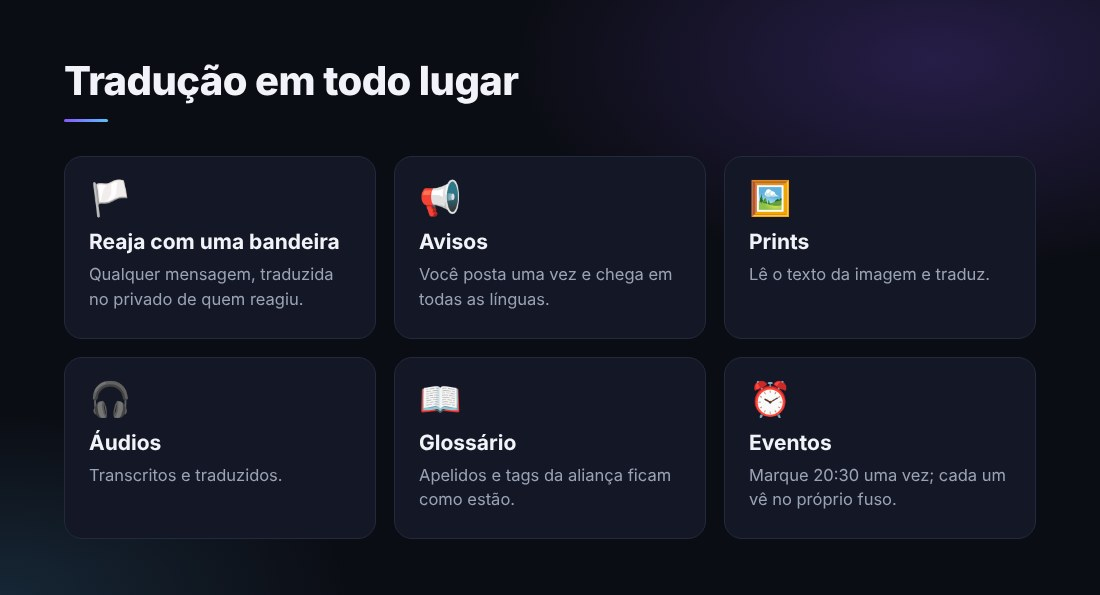
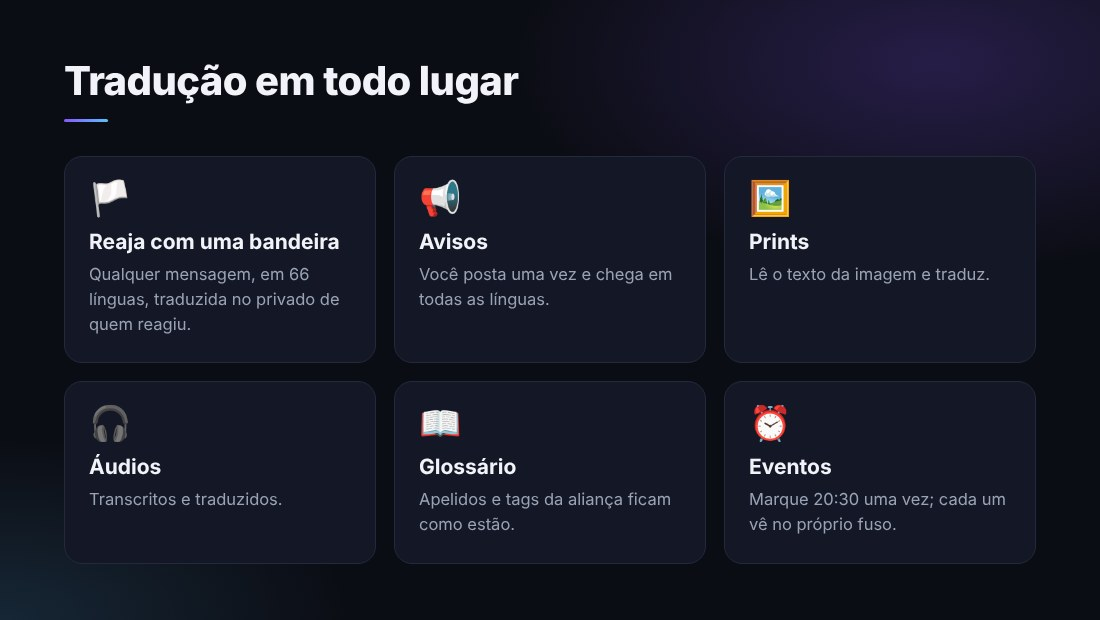
Bandeira em 66 línguas + arte de comparação na página do top.gg
- A reação de bandeira passa de 22 para 66 línguas (grego, sueco,
  hebraico, persa, tcheco, bengali, suaíli...): LINGUAS_DA_BANDEIRA e mais
  países por língua. As salas continuam nas 22 do menu.
- Motores: DeepL é pulado nas línguas que não tem (DEEPL_ACEITA); a Azure
  chama no/sr/mn de nb/sr-Cyrl/mn-Cyrl; um 400 numa língua só de bandeira
  cai no gratuito sem marcar o motor como falhando nem castigar a chave.
- top.gg: arte "Por que a CYRON" (bot comum × CYRON), chip "66 línguas",
  texto com 66 na bandeira e 22 nas salas; artes na versão 2.
- Site: llms.txt e JSON-LD com as 66 línguas da bandeira.

Claude-Session: https://claude.ai/code/session_01KEoVPUpsqnUtDW8kuRSzxb

diff --git a/discord-bot-gateway/index.js b/discord-bot-gateway/index.js
@@ -690,9 +690,55 @@ const IDIOMA_DO_PAIS = {
   BH: "ar", OM: "ar", JO: "ar", LB: "ar", LY: "ar", TN: "ar", YE: "ar",
 };
 
+/* MAIS LINGUAS NA BANDEIRA (dono, 24/11: "quanto mais idiomas mais
+   visibilidade").
+
+   As salas continuam nas 22 do menu -- sala custa espaco no servidor e
+   traducao a cada fala. A bandeira, nao: so' traduz quando alguem reage, e
+   so' para quem reagiu. Entao ela pode atender quase todo pais com bandeira,
+   e um grego que reage com 🇬🇷 recebe em grego em vez de nada.
+
+   [codigo, nome em portugues, bandeira, nome na propria lingua]. O codigo e'
+   o do Google (o gratuito); a Azure chama tres deles de outro jeito
+   (AZURE_IDIOMA), e o DeepL so' conhece parte (DEEPL_ACEITA) -- lingua que um
+   motor nao tem cai no seguinte sem marcar falha (ver motorAceita). */
+const LINGUAS_DA_BANDEIRA = [
+  ["el", "Grego", "🇬🇷", "Ελληνικά"], ["sv", "Sueco", "🇸🇪", "Svenska"], ["no", "Norueguês", "🇳🇴", "Norsk"],
+  ["da", "Dinamarquês", "🇩🇰", "Dansk"], ["fi", "Finlandês", "🇫🇮", "Suomi"], ["is", "Islandês", "🇮🇸", "Íslenska"],
+  ["cs", "Tcheco", "🇨🇿", "Čeština"], ["sk", "Eslovaco", "🇸🇰", "Slovenčina"], ["hu", "Húngaro", "🇭🇺", "Magyar"],
+  ["ro", "Romeno", "🇷🇴", "Română"], ["bg", "Búlgaro", "🇧🇬", "Български"], ["sr", "Sérvio", "🇷🇸", "Српски"],
+  ["hr", "Croata", "🇭🇷", "Hrvatski"], ["bs", "Bósnio", "🇧🇦", "Bosanski"], ["sl", "Esloveno", "🇸🇮", "Slovenščina"],
+  ["mk", "Macedônio", "🇲🇰", "Македонски"], ["sq", "Albanês", "🇦🇱", "Shqip"], ["et", "Estoniano", "🇪🇪", "Eesti"],
+  ["lv", "Letão", "🇱🇻", "Latviešu"], ["lt", "Lituano", "🇱🇹", "Lietuvių"], ["mt", "Maltês", "🇲🇹", "Malti"],
+  ["he", "Hebraico", "🇮🇱", "עברית"], ["fa", "Persa", "🇮🇷", "فارسی"], ["ur", "Urdu", "🇵🇰", "اردو"],
+  ["bn", "Bengali", "🇧🇩", "বাংলা"], ["ne", "Nepalês", "🇳🇵", "नेपाली"], ["my", "Birmanês", "🇲🇲", "မြန်မာ"],
+  ["km", "Khmer", "🇰🇭", "ខ្មែរ"], ["lo", "Laosiano", "🇱🇦", "ລາວ"], ["mn", "Mongol", "🇲🇳", "Монгол"],
+  ["ka", "Georgiano", "🇬🇪", "ქართული"], ["hy", "Armênio", "🇦🇲", "Հայերեն"], ["az", "Azerbaijano", "🇦🇿", "Azərbaycan"],
+  ["kk", "Cazaque", "🇰🇿", "Қазақ"], ["uz", "Uzbeque", "🇺🇿", "Oʻzbek"], ["ky", "Quirguiz", "🇰🇬", "Кыргызча"],
+  ["tk", "Turcomeno", "🇹🇲", "Türkmen"], ["am", "Amárico", "🇪🇹", "አማርኛ"], ["sw", "Suaíli", "🇰🇪", "Kiswahili"],
+  ["so", "Somali", "🇸🇴", "Soomaali"], ["mg", "Malgaxe", "🇲🇬", "Malagasy"], ["ht", "Crioulo haitiano", "🇭🇹", "Kreyòl"],
+  ["sm", "Samoano", "🇼🇸", "Gagana Sāmoa"], ["to", "Tonganês", "🇹🇴", "Lea fakatonga"],
+];
+
+/* Os paises que falam uma lingua que ja' tem bandeira propria acima, ou uma
+   do menu, mas cuja bandeira ainda nao levava a nada. Mesma regra de antes:
+   a lingua que a maioria le'. */
+const PAIS_DA_BANDEIRA_EXTRA = {
+  ...Object.fromEntries(LINGUAS_DA_BANDEIRA.map(([cod, , bandeira]) => [paisDaBandeira(bandeira), cod])),
+  CY: "el", MD: "ro", ME: "sr", XK: "sq", AF: "fa", TZ: "sw",
+  BY: "ru", KP: "ko",
+  SN: "fr", CI: "fr", CM: "fr", ML: "fr", BF: "fr", NE: "fr", TD: "fr", GN: "fr", BJ: "fr", TG: "fr",
+  CD: "fr", CG: "fr", GA: "fr", MC: "fr", LU: "fr",
+  ZA: "en", NG: "en", GH: "en", JM: "en", UG: "en", ZW: "en", ZM: "en",
+  CV: "pt", GW: "pt", ST: "pt", TL: "pt",
+  HN: "es", SV: "es", NI: "es", CU: "es", PR: "es", GQ: "es",
+  SD: "ar", SY: "ar", PS: "ar", MR: "ar",
+  SR: "nl", SM: "it", VA: "it",
+};
+
 function idiomaDaBandeira(emoji) {
   const pais = paisDaBandeira(emoji);
-  if (pais) return IDIOMA_DO_PAIS[pais] || "";
+  if (pais) return IDIOMA_DO_PAIS[pais] || PAIS_DA_BANDEIRA_EXTRA[pais] || "";
   /* Lingua cujo sinal no menu nao e' bandeira (a lanterna do chines
      tradicional): reagir com o sinal que o proprio bot mostra traduz. */
   const achado = LINGUAS_MENU.find(([, , sinal]) => sinal === emoji && !paisDaBandeira(sinal));
@@ -1175,8 +1221,18 @@ function decifrar(guardado) {
 }
 
 /* Cada tradutor chama os idiomas do seu jeito. */
-const AZURE_IDIOMA = { "zh-CN": "zh-Hans", "zh-TW": "zh-Hant", tl: "fil" };
-const DEEPL_IDIOMA = { pt: "PT-BR", en: "EN-US", "zh-CN": "ZH-HANS", "zh-TW": "ZH-HANT" };
+const AZURE_IDIOMA = { "zh-CN": "zh-Hans", "zh-TW": "zh-Hant", tl: "fil", no: "nb", sr: "sr-Cyrl", mn: "mn-Cyrl" };
+const DEEPL_IDIOMA = { pt: "PT-BR", en: "EN-US", "zh-CN": "ZH-HANS", "zh-TW": "ZH-HANT", no: "NB" };
+/* O que o DeepL traduz (destino). Fora disso ele recusa -- e recusa nao pode
+   virar "o DeepL deste servidor esta' falhando" no painel por causa de uma
+   bandeira da Mongolia. */
+const DEEPL_ACEITA = new Set(["ar", "bg", "cs", "da", "de", "el", "en", "es", "et", "fi", "fr", "hu", "id", "it",
+  "ja", "ko", "lt", "lv", "no", "nl", "pl", "pt", "ro", "ru", "sk", "sl", "sv", "tr", "uk", "zh-CN", "zh-TW"]);
+/* Pura. O motor sabe traduzir para esta lingua? O gratuito (Google) sabe
+   todas; o DeepL, so' as da lista. */
+function motorAceita(tipo, alvo) {
+  return tipo !== "deepl" || DEEPL_ACEITA.has(alvo);
+}
 
 /* Uma chamada a' Azure para todos os idiomas da mesma frase.
 
@@ -2082,6 +2138,7 @@ async function tentarChavesDoDono(texto, alvo, motor) {
   if (motor.conta && contaEstourou(motor.conta)) return null;
   for (const reserva of motoresDoDono()) {
     if (estaDescansando(`dono:${reserva.tipo}`)) continue;
+    if (!motorAceita(reserva.tipo, alvo)) continue;
     try {
       const saiu = await MOTORES[reserva.tipo].traduzir(texto, alvo, reserva);
       if (saiu) {
@@ -2095,6 +2152,9 @@ async function tentarChavesDoDono(texto, alvo, motor) {
          cada fala nao traz o mes de volta -- seis horas de canto, e a fila
          segue nos gratuitos ate' la. */
       const porque = String(e?.message || e);
+      /* Lingua so' de bandeira que esta chave nao tem: segue para o gratuito
+         sem castigar a chave, que continua boa para todo o resto. */
+      if (linguaSoDaBandeira(alvo) && /\b400\b/.test(porque)) continue;
       const acabou = /40[36]|quota|limit/i.test(porque);
       porDeCastigo(`dono:${reserva.tipo}`, acabou ? 6 * 60 * 60 * 1000 : DESCANSO_APOS_QUEDA);
       tradutorFalhas.erros++; tradutorFalhas.ultimoErro = `${reserva.tipo} do dono: ${porque.slice(0, 90)}`;
@@ -2107,7 +2167,7 @@ async function tentarChavesDoDono(texto, alvo, motor) {
 
 async function traduzir(texto, alvo, motor = MOTOR_AUTO) {
   const escolhido = MOTORES[motor.tipo];
-  if (escolhido && motor.chave) {
+  if (escolhido && motor.chave && motorAceita(motor.tipo, alvo)) {
     try {
       const saiu = await escolhido.traduzir(texto, alvo, motor);
       if (saiu) {
@@ -2118,9 +2178,15 @@ async function traduzir(texto, alvo, motor = MOTOR_AUTO) {
       throw new Error("resposta vazia");
     } catch (e) {
       const porque = String(e?.message || e).slice(0, 160);
-      tradutorFalhas.erros++; tradutorFalhas.quedas++; tradutorFalhas.ultimoErro = porque;
-      console.error(`tradutor: ${motor.tipo} falhou:`, porque);
-      if (motor.servidorId) falhaDoMotor.set(motor.servidorId, { quando: Date.now(), porque });
+      /* Lingua so' de bandeira que o motor do cliente nao tem: cai no
+         gratuito calado. A chave dele esta' boa; so' nao fala mongol. */
+      if (linguaSoDaBandeira(alvo) && /\b400\b/.test(porque)) {
+        /* nada a anotar */
+      } else {
+        tradutorFalhas.erros++; tradutorFalhas.quedas++; tradutorFalhas.ultimoErro = porque;
+        console.error(`tradutor: ${motor.tipo} falhou:`, porque);
+        if (motor.servidorId) falhaDoMotor.set(motor.servidorId, { quando: Date.now(), porque });
+      }
       /* Cai no gratuito em vez de devolver nada: mensagem sem traducao ainda
          chega; mensagem nenhuma some da conversa. */
     }
@@ -5359,8 +5425,13 @@ const INTERVALO_SINCRONIA = 10 * 60 * 1000;
    qualquer codigo nosso rodar. */
 const SEGUNDOS_ENTRE_FALAS = 5;
 
+/* Pura. A lingua existe so' na bandeira (nao tem sala nem menu)? */
+function linguaSoDaBandeira(cod) {
+  return LINGUAS_DA_BANDEIRA.some(([c]) => c === cod) && !LINGUAS_MENU.some(([c]) => c === cod);
+}
+
 function nomeDoIdioma(cod) {
-  const achado = LINGUAS_MENU.find(([c]) => c === cod);
+  const achado = LINGUAS_MENU.find(([c]) => c === cod) || LINGUAS_DA_BANDEIRA.find(([c]) => c === cod);
   return achado ? `${achado[2]} ${achado[1]}` : cod;
 }
 

diff --git a/video-divulgacao/arte-topgg.html b/video-divulgacao/arte-topgg.html
@@ -64,6 +64,21 @@
   .herois { display:flex; gap:10px; margin-top:14px }
   .herois img { width:58px; height:58px; border-radius:12px; border:1px solid var(--borda) }
 
+  /* comparação: o lado comum apagado, o da CYRON com a borda do degradê */
+  .lado { padding:28px 28px 30px }
+  .lado-rot { font-size:15px; font-weight:700; letter-spacing:.14em; text-transform:uppercase; color:var(--fraco) }
+  .cyron { border:1px solid transparent; background:
+    linear-gradient(var(--cartao),var(--cartao)) padding-box,
+    linear-gradient(135deg,var(--roxo),var(--azul)) border-box; box-shadow:0 10px 40px rgba(137,87,255,.18) }
+  .cyron .lado-rot { font-size:22px; letter-spacing:.06em }
+  .lista { list-style:none; margin-top:18px; display:grid; gap:14px }
+  .lista li { font-size:18px; line-height:1.4; padding-left:34px; position:relative }
+  .lista li::before { position:absolute; left:0; top:0; width:22px; height:22px; border-radius:50%;
+    display:grid; place-items:center; font-size:13px; font-weight:800 }
+  .nao li { color:var(--fraco) }
+  .nao li::before { content:"✕"; background:rgba(154,163,181,.14); color:var(--fraco) }
+  .sim li::before { content:"✓"; background:linear-gradient(135deg,var(--roxo),var(--azul)); color:#fff }
+
   /* botão */
   #botao { height:210px; display:none; place-items:center; padding:0 }
   #botao.ativa { display:grid }
@@ -130,6 +145,20 @@
   </div>
 </section>
 
+<section class="parte" id="comparacao">
+  <h2 data-t="cmp"></h2>
+  <div class="grade" style="grid-template-columns:1fr 1fr">
+    <div class="cartao lado">
+      <div class="lado-rot" data-t="cmpOutro"></div>
+      <ul class="lista nao"><li data-t="o1"></li><li data-t="o2"></li><li data-t="o3"></li><li data-t="o4"></li></ul>
+    </div>
+    <div class="cartao lado cyron">
+      <div class="lado-rot"><span class="grad">CYRON</span></div>
+      <ul class="lista sim"><li data-t="c1"></li><li data-t="c2"></li><li data-t="c3"></li><li data-t="c4"></li></ul>
+    </div>
+  </div>
+</section>
+
 <section class="parte" id="botao">
   <div class="bt"><span class="mais">+</span> <span data-t="bt"></span> <small data-t="btSub"></small></div>
 </section>
@@ -139,11 +168,11 @@ const TEXTOS = {
   en: {
     rotulo: "Discord translation bot", titulo1: "One server.", titulo2: "Every language.",
     sub: "Everyone writes in their own language and reads everyone else in theirs. No commands.",
-    chip1: "<b>22</b> languages", chip2: "<b>Free</b> to start", chip3: "Built for <b>alliances</b>",
+    chip1: "<b>66</b> languages", chip2: "<b>Free</b> to start", chip3: "Built for <b>alliances</b>",
     como: "Same conversation, every language", escreveu: "written in Portuguese",
     comoSub: "Each member picks a language and chats in their own room. Every message lands in the other rooms, translated, with the author's name and avatar.",
     recursos: "Translation everywhere",
-    r1t: "React with a flag", r1: "Any message, translated privately for whoever reacted.",
+    r1t: "React with a flag", r1: "Any message, in 66 languages, translated privately for whoever reacted.",
     r2t: "Announcements", r2: "Post once, it lands in every language.",
     r3t: "Screenshots", r3: "Reads the text in an image and translates it.",
     r4t: "Voice notes", r4: "Transcribed and translated.",
@@ -154,15 +183,20 @@ const TEXTOS = {
     k2t: "Hero book", k2: "Every hero, with tips to lead and join rallies.",
     k3t: "Duels & levels", k3: "Hero cards, duels, levels, role panels and welcome images.",
     bt: "Add CYRON to Discord", btSub: "free",
+    cmp: "Why CYRON", cmpOutro: "Typical translation bot",
+    o1: "A command or a reaction for every message", o2: "Every language mixed in one channel",
+    o3: "Replies and mentions get lost", o4: "Stickers and emojis left behind",
+    c1: "People just chat — translation happens on its own", c2: "Each person reads one room, in their language",
+    c3: "Replies, mentions and edits follow the message", c4: "Stickers, GIFs and emojis cross every room",
   },
   pt: {
     rotulo: "Bot de tradução para Discord", titulo1: "Um servidor.", titulo2: "Todas as línguas.",
     sub: "Cada um escreve na sua língua e lê os outros na sua. Sem comandos.",
-    chip1: "<b>22</b> línguas", chip2: "<b>Grátis</b> para começar", chip3: "Feita para <b>alianças</b>",
+    chip1: "<b>66</b> línguas", chip2: "<b>Grátis</b> para começar", chip3: "Feita para <b>alianças</b>",
     como: "A mesma conversa, em todas as línguas", escreveu: "escrito em português",
     comoSub: "Cada membro escolhe a língua e conversa na sala dele. Cada mensagem chega nas outras salas traduzida, com o nome e a foto de quem escreveu.",
     recursos: "Tradução em todo lugar",
-    r1t: "Reaja com uma bandeira", r1: "Qualquer mensagem, traduzida no privado de quem reagiu.",
+    r1t: "Reaja com uma bandeira", r1: "Qualquer mensagem, em 66 línguas, traduzida no privado de quem reagiu.",
     r2t: "Avisos", r2: "Você posta uma vez e chega em todas as línguas.",
     r3t: "Prints", r3: "Lê o texto da imagem e traduz.",
     r4t: "Áudios", r4: "Transcritos e traduzidos.",
@@ -173,6 +207,11 @@ const TEXTOS = {
     k2t: "Livro dos heróis", k2: "Cada herói, com dicas para liderar e entrar em rally.",
     k3t: "Duelos e níveis", k3: "Cartas de herói, duelos, níveis, painel de cargos e boas-vindas.",
     bt: "Adicionar a CYRON", btSub: "grátis",
+    cmp: "Por que a CYRON", cmpOutro: "Bot de tradução comum",
+    o1: "Um comando ou reação para cada mensagem", o2: "Todas as línguas misturadas no mesmo canal",
+    o3: "Respostas e menções se perdem", o4: "Figurinhas e emojis ficam para trás",
+    c1: "As pessoas só conversam — a tradução acontece sozinha", c2: "Cada um lê uma sala, na sua língua",
+    c3: "Respostas, menções e edições acompanham a mensagem", c4: "Figurinhas, GIFs e emojis atravessam as salas",
   },
 };
 const q = new URLSearchParams(location.search);

diff --git a/discord-bot-gateway/topgg-pagina.js b/discord-bot-gateway/topgg-pagina.js
@@ -24,7 +24,7 @@ const CONVITE = "https://discord.com/oauth2/authorize?client_id=1498142929041096
 /* As artes (video-divulgacao/arte-topgg.html → cyron/img/topgg/), servidas pelo
    site. O ?v= muda quando a arte muda: o top.gg guarda imagem em cache, e sem
    isso a página continuaria mostrando a velha. */
-const VERSAO_DAS_ARTES = "1";
+const VERSAO_DAS_ARTES = "2";
 function arte(nome, lingua, alt) {
   return `![${alt}](${SITE}/img/topgg/${nome}-${lingua}.jpg?v=${VERSAO_DAS_ARTES})`;
 }
@@ -52,13 +52,18 @@ export function paginaDoTopgg({ beta = false } = {}) {
         "",
         "## How it works",
         arte("como", "en", "The same message in Portuguese, English and Arabic rooms"),
-        "1. Members pick their language with one click.",
+        "1. Members pick their language with one click (language rooms in 22 languages).",
         "2. They chat in their own room (`#chat-pt`, `#chat-en`…) and every message shows up in the other rooms, already translated, with their name and avatar.",
         "3. Replies, mentions, edits, stickers, GIFs and emojis follow the message.",
         "",
+        "## Why CYRON",
+        arte("comparacao", "en", "Typical translation bot versus CYRON"),
+        "- Typical bots need a command or a reaction for every message, and mix every language in one channel.",
+        "- With CYRON people just chat: each person reads one room, in their own language, and replies, mentions, edits, stickers and emojis follow the message.",
+        "",
         "## Translation everywhere",
         arte("recursos", "en", "Flags, announcements, screenshots, voice notes, glossary and events"),
-        "- 🏳 **React with a flag** — any message, translated privately for whoever reacted.",
+        "- 🏳 **React with a flag** — any message, in **66 languages**, translated privately for whoever reacted.",
         "- 📢 **Announcements** — post once, it lands in every language.",
         "- 🖼 **Screenshots** — reads the text in an image and translates it.",
         "- 🎧 **Voice notes** — transcribed and translated.",
@@ -93,13 +98,18 @@ export function paginaDoTopgg({ beta = false } = {}) {
         "",
         "## Como funciona",
         arte("como", "pt", "A mesma mensagem nas salas em português, inglês e árabe"),
-        "1. Cada membro escolhe a língua com um clique.",
+        "1. Cada membro escolhe a língua com um clique (salas em 22 línguas).",
         "2. Conversa na sala dele (`#chat-pt`, `#chat-en`…) e cada mensagem aparece nas outras salas já traduzida, com o nome e a foto de quem escreveu.",
         "3. Respostas, menções, edições, figurinhas, GIFs e emojis acompanham a mensagem.",
         "",
+        "## Por que a CYRON",
+        arte("comparacao", "pt", "Bot de tradução comum contra a CYRON"),
+        "- Bots comuns pedem um comando ou reação para cada mensagem, e misturam todas as línguas no mesmo canal.",
+        "- Com a CYRON as pessoas só conversam: cada um lê uma sala, na sua língua, e respostas, menções, edições, figurinhas e emojis acompanham a mensagem.",
+        "",
         "## Tradução em todo lugar",
         arte("recursos", "pt", "Bandeiras, avisos, prints, áudios, glossário e eventos"),
-        "- 🏳 **Reaja com uma bandeira** — qualquer mensagem, traduzida no privado de quem reagiu.",
+        "- 🏳 **Reaja com uma bandeira** — qualquer mensagem, em **66 línguas**, traduzida no privado de quem reagiu.",
         "- 📢 **Avisos** — você posta uma vez e chega em todas as línguas.",
         "- 🖼 **Prints** — lê o texto da imagem e traduz.",
         "- 🎧 **Áudios** — transcritos e traduzidos.",

diff --git a/discord-bot-gateway/testes.js b/discord-bot-gateway/testes.js
@@ -199,6 +199,10 @@ Object.assign(globalThis, carregar(["WEBHOOK_REFEITO_EM", "ESPERA_PARA_REFAZER_W
 /* As salas do jogo ficam fora do menu de fontes: o painel e o clique do menu
    consultam esta lista. */
 Object.assign(globalThis, carregar(["TIPOS_DAS_SALAS_DO_JOGO"]));
+/* As linguas que so' a bandeira atende: a bandeira, o nome do idioma e os
+   motores consultam estas tabelas. */
+Object.assign(globalThis, carregar(["paisDaBandeira", "LINGUAS_DA_BANDEIRA", "PAIS_DA_BANDEIRA_EXTRA",
+  "linguaSoDaBandeira", "DEEPL_ACEITA", "motorAceita"]));
 /* O import do index que o FUNCOES usa (a função dos códigos nasce ligada nos servidores de Kingshot). */
 Object.assign(globalThis, { pareceKingshot: (await import("./codigos-jogo.js")).pareceKingshot });
 
@@ -2573,7 +2577,26 @@ function conferirCartao(onde, embed, componentes = []) {
 
   /* País cujo idioma eu não atendo devolve vazio, e o evento morre ali sem
      custar tradução nenhuma. */
-  ok("país sem idioma meu não vira nada", idiomaDaBandeira("🇰🇪"), "");
+  /* O Quênia era o exemplo de "país sem idioma meu" até 24/11, quando a
+     bandeira passou a atender suaíli. A Antártida continua sem língua. */
+  ok("país sem idioma meu não vira nada", idiomaDaBandeira("🇦🇶"), "");
+
+  /* AS LÍNGUAS SÓ DE BANDEIRA (24/11): a sala segue nas 22; a bandeira, que só
+     traduz quando alguém reage, atende quase todo país com bandeira. */
+  ok("Grécia lê em grego", idiomaDaBandeira("🇬🇷"), "el");
+  ok("Quênia lê em suaíli", idiomaDaBandeira("🇰🇪"), "sw");
+  ok("Israel lê em hebraico", idiomaDaBandeira("🇮🇱"), "he");
+  ok("Senegal lê em francês", idiomaDaBandeira("🇸🇳"), "fr");
+  ok("Belarus lê em russo", idiomaDaBandeira("🇧🇾"), "ru");
+  ok("Chipre lê em grego", idiomaDaBandeira("🇨🇾"), "el");
+  verdade("cada língua só de bandeira volta pela própria bandeira, e nenhuma repete o menu",
+    LINGUAS_DA_BANDEIRA.every(([cod, , bandeira]) => idiomaDaBandeira(bandeira) === cod && linguaSoDaBandeira(cod)));
+  verdade("e o menu continua mandando nas bandeiras dele", idiomaDaBandeira("🇧🇷") === "pt" && !linguaSoDaBandeira("pt"));
+  verdade("com mais de 60 línguas na bandeira", new Set([...Object.values(IDIOMA_DO_PAIS), ...Object.values(PAIS_DA_BANDEIRA_EXTRA)]).size >= 60);
+  /* DeepL não traduz para mongol: o motor do cliente é pulado, e não
+     marcado como falhando no painel. */
+  verdade("o DeepL é pulado nas línguas que ele não tem", !motorAceita("deepl", "mn") && motorAceita("deepl", "el") &&
+    motorAceita("azure", "mn") && motorAceita("auto", "mn"));
   ok("joinha não vira idioma", idiomaDaBandeira("👍"), "");
 
   /* Regressão que importa: se alguém trocar a bandeira de uma linha do menu,

diff --git a/cyron/index.html b/cyron/index.html
@@ -238,7 +238,7 @@ html[lang="en"] [data-en]{display:revert}
   "operatingSystem": "Discord",
   "url": "https://hicyron.github.io/",
   "image": "https://hicyron.github.io/img/cyron-og.jpg",
-  "description": "Discord bot that translates a whole server in real time: one chat room per language, every message mirrored and translated into the other rooms, plus flag-reaction translation. 22 languages. Built for multilingual communities and gaming alliances, with Kingshot tools (Bear Trap card, hero book, events in every time zone). Listed on Top.gg.",
+  "description": "Discord bot that translates a whole server in real time: one chat room per language, every message mirrored and translated into the other rooms, plus flag-reaction translation. Language rooms in 22 languages; flag translation in 66. Built for multilingual communities and gaming alliances, with Kingshot tools (Bear Trap card, hero book, events in every time zone). Listed on Top.gg.",
   "inLanguage": ["en", "pt", "es", "fr", "de", "it", "nl", "pl", "ru", "uk", "tr", "ar", "hi", "zh-CN", "zh-TW", "ja", "ko", "id", "ms", "th", "vi", "fil"],
   "offers": { "@type": "Offer", "price": "0", "priceCurrency": "USD", "description": "Free plan forever; Alliance plan free during beta" },
   "installUrl": "https://discord.com/oauth2/authorize?client_id=1498142929041096856&permissions=327223209040&scope=bot%20applications.commands",
